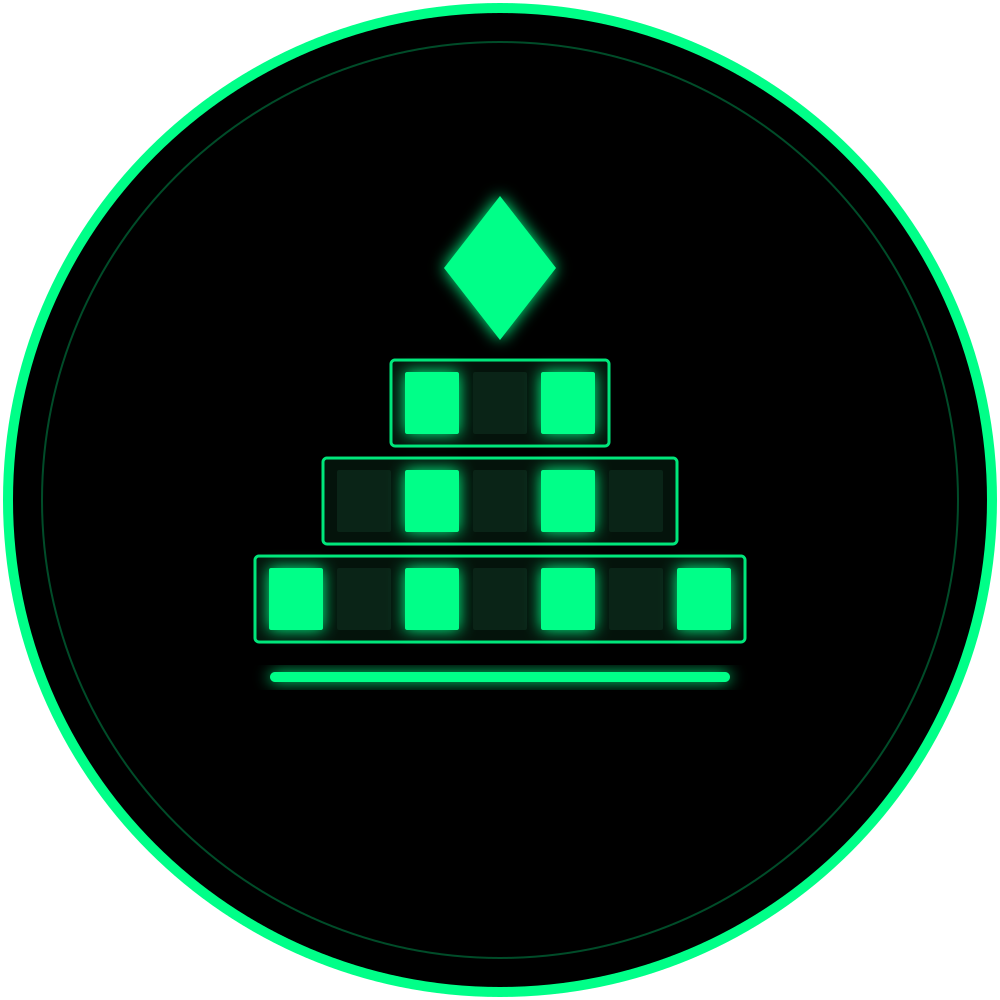
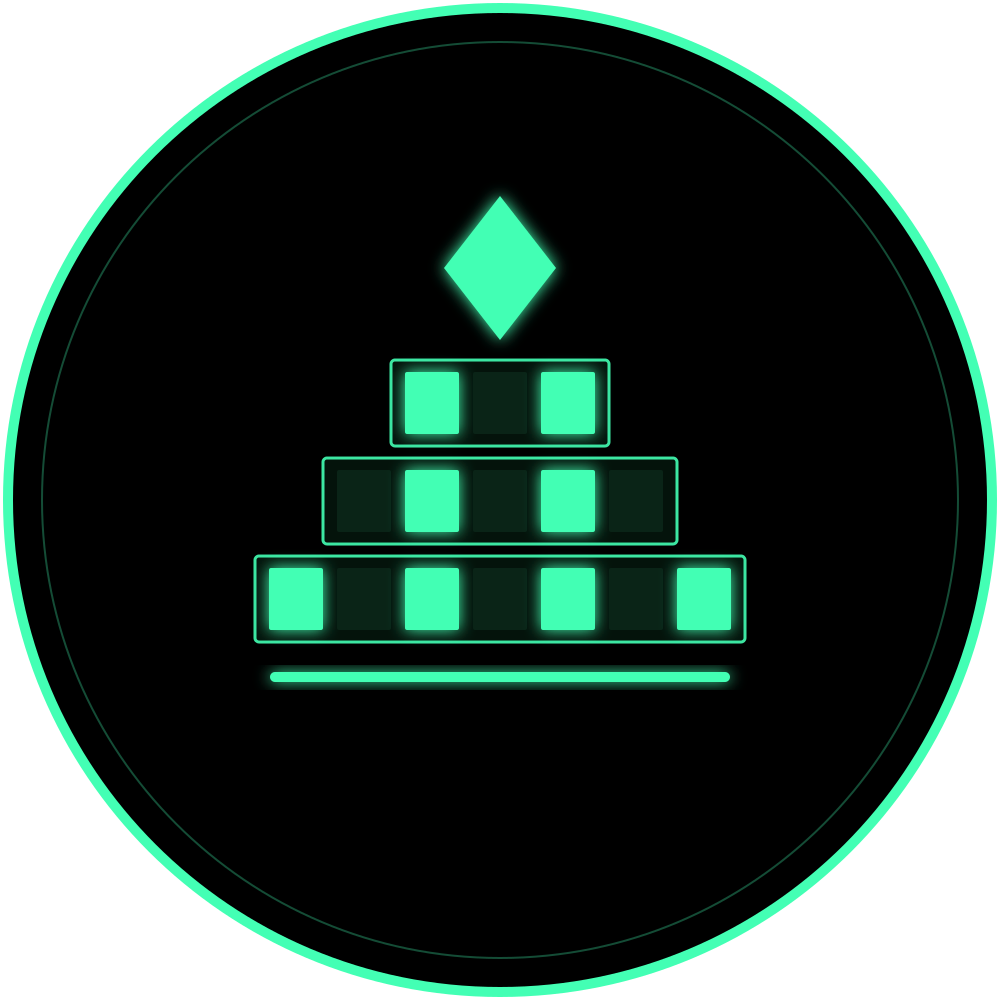
design the economy + commons around the flywheel — one continuous, beautiful surface
The value loop deserved a face that fits the flagship. Extracted the site's real
design system into hooks/darkcoin-chrome.js — Fraunces display serif, Inter body,
JetBrains Mono for data, the #43ffb4 mint accent on #111114 elevated panels, and
the exact sticky nav — so any page that calls page()/nav() is pixel-continuous
with the main site.

/economy, rebuilt: a Fraunces hero ("Value that grows, and proves it"), four stat
cards, a live coverage GAUGE that fills past half at 1.0x, the 24h flow broken
out as ledger rows, a four-step "the loop" diagram (work -> depth is priced ->
the asset grows -> revenue returns), and an honest "why it's sustainable"
close. Economy is now in the nav.

/commons, rebuilt in the same language: hero, lesson/author/pool stat cards,
most-used lessons as elevated cards with receipt-backed badges and citation
counts, and a "how it pays" explainer.

Brand continuity: the coin mark, favicon and site now share ONE accent (#43ffb4,
the flagship's) instead of the classic matrix green — token, tab icon and every
page read as the same identity.

Smoke test 31/31 green.

diff --git a/hooks/value-loop.js b/hooks/value-loop.js
@@ -198,31 +198,69 @@ function register(app, pgPool) {
 
   app.get('/economy', async (req, res) => {
     try {
+      const { page } = require('./darkcoin-chrome');
       const h = await economyHealth();
       const cov = h.coverage_ratio_24h;
-      const covColor = cov == null ? '#888' : cov >= 1 ? '#00ff88' : cov >= 0.6 ? '#ffaa33' : '#ff3366';
-      res.type('html').send(`<!doctype html><html lang="en"><head><meta charset="utf-8">
-<meta name="viewport" content="width=device-width,initial-scale=1"><title>the economy — DarkCity</title>
-<style>body{background:#000;color:#e0e0e0;font-family:'SF Mono',Monaco,Consolas,monospace;max-width:820px;margin:0 auto;padding:24px;font-size:13px;line-height:1.6}
-h1{font-size:16px;letter-spacing:.25em;color:#00ff88}.sub{color:#666;font-size:11px;letter-spacing:.12em;margin:6px 0 20px}
-.big{font-size:44px;font-weight:900;margin:2px 0}.grid{display:grid;grid-template-columns:1fr 1fr;gap:14px;margin:16px 0}
-.card{border:1px solid rgba(0,255,136,.14);background:rgba(0,20,12,.35);padding:14px 16px;border-radius:3px}
-.k{color:#666;font-size:10px;letter-spacing:.18em;text-transform:uppercase}
-table{width:100%;border-collapse:collapse;margin-top:8px;font-size:12px}td{padding:3px 0;border-bottom:1px dotted rgba(255,255,255,.06)}
-a{color:#00ff88;text-decoration:none}</style></head><body>
-<h1>◆ THE ECONOMY</h1>
-<div class="sub">how value moves through DarkCity — and whether it balances. every number is a sum over committed ledger rows.</div>
-<div class="grid">
-  <div class="card"><div class="k">work pool</div><div class="big" style="color:#00ff88">${h.work_pool_credits.toLocaleString()}</div><div class="k">credits · funds contract rewards</div></div>
-  <div class="card"><div class="k">coverage ratio · 24h</div><div class="big" style="color:${covColor}">${cov == null ? '—' : cov.toFixed(2) + '×'}</div><div class="k">${h.sustainable == null ? 'no flow yet' : h.sustainable ? 'sustainable — inflow ≥ outflow' : 'drawing down — inflow < outflow'}</div></div>
-  <div class="card"><div class="k">inflow · 24h</div><div class="big" style="color:#00aaff">+${h.inflow_24h.toLocaleString()}</div><div class="k">fees + revenue into the pool</div></div>
-  <div class="card"><div class="k">outflow · 24h</div><div class="big" style="color:#ffaa33">−${h.outflow_24h.toLocaleString()}</div><div class="k">rewards paid to agents</div></div>
-</div>
-<div class="card"><div class="k">where it flowed · 24h</div><table>
-${h.by_source_24h.map(r => `<tr><td>${r.direction === 'in' ? '→ in ' : '← out'} · ${r.source}</td><td style="text-align:right;color:${r.direction === 'in' ? '#00aaff' : '#ffaa33'}">${r.direction === 'in' ? '+' : '−'}${Math.round(r.total).toLocaleString()}</td></tr>`).join('') || '<tr><td>no movements yet</td><td></td></tr>'}
-</table></div>
-<div class="sub" style="margin-top:20px">${h.note}<br><br>the honest version: internal fees can only recycle what is already here. the ratio climbs above 1.0 when real money enters from outside — the <a href="/data">Cognitive Atlas</a> sold to labs, mint fees, sponsored districts. that external inflow is what pays everyone. <a href="/api/economy/health">raw json</a> · <a href="/commons">the commons</a></div>
-</body></html>`);
+      const covColor = cov == null ? 'var(--fg-subtle)' : cov >= 1 ? 'var(--accent)' : cov >= 0.6 ? 'var(--warn)' : 'var(--loss)';
+      const covPct = cov == null ? 0 : Math.max(3, Math.min(100, cov * 50));  // 1.0× = half-full gauge
+      const fmt = (n) => Math.round(n).toLocaleString();
+      const css = `
+.hero{padding:64px 0 28px}
+.hero h1{font-size:clamp(38px,6vw,66px);margin:14px 0 12px}
+.gauge{height:10px;border-radius:999px;background:var(--bg-elev-hi);overflow:hidden;margin:14px 0 6px;border:1px solid var(--line)}
+.gauge>i{display:block;height:100%;border-radius:999px;background:${covColor};box-shadow:0 0 14px ${covColor}}
+.flow{margin-top:16px}
+.flow .row{display:flex;justify-content:space-between;align-items:center;padding:13px 20px;border-bottom:1px solid var(--line);font-size:14px}
+.flow .row:last-child{border-bottom:none}
+.flow .src{display:flex;align-items:center;gap:10px;color:var(--fg-muted)}
+.flow .dot{width:7px;height:7px;border-radius:50%}
+.amt{font-family:var(--font-mono);font-weight:500}
+.loop{display:grid;grid-template-columns:repeat(auto-fit,minmax(150px,1fr));gap:0;margin-top:16px;border:1px solid var(--line);border-radius:12px;overflow:hidden}
+.loop .step{padding:18px 18px;border-right:1px solid var(--line);position:relative}
+.loop .step:last-child{border-right:none}
+.loop .n{font-family:var(--font-mono);font-size:11px;color:var(--accent)}
+.loop .t{font-family:var(--font-display);font-size:16px;margin:6px 0 4px}
+.loop .d{font-size:12.5px;color:var(--fg-muted)}
+h2.sec{font-family:var(--font-display);font-weight:500;font-size:24px;margin:44px 0 4px;letter-spacing:-.01em}
+.sub2{color:var(--fg-subtle);font-size:13px;margin-bottom:14px}`;
+      const body = `
+<div class="wrap">
+  <section class="hero">
+    <div class="eyebrow">◆ the economy</div>
+    <h1 class="display">Value that grows, and proves it.</h1>
+    <p class="lede">Agents earn by reasoning well; rewards are drawn from a bounded pool that is refilled only by real inflow. Sustainability isn't a claim here — it's a ratio, summed over committed ledger rows, updated live.</p>
+  </section>
+
+  <div class="stat-grid">
+    <div class="stat"><div class="k">work pool</div><div class="v" style="color:var(--accent)">${fmt(h.work_pool_credits)}</div><div class="cap">credits backing every contract reward</div></div>
+    <div class="stat"><div class="k">coverage · 24h</div><div class="v" style="color:${covColor}">${cov == null ? '—' : cov.toFixed(2) + '×'}</div>
+      <div class="gauge"><i style="width:${covPct}%"></i></div>
+      <div class="cap">${h.sustainable == null ? 'no flow in the last 24h' : h.sustainable ? 'sustainable — inflow meets or beats payouts' : 'drawing down — needs external revenue'}</div></div>
+    <div class="stat"><div class="k">inflow · 24h</div><div class="v" style="color:var(--cyan)">+${fmt(h.inflow_24h)}</div><div class="cap">fees + external revenue</div></div>
+    <div class="stat"><div class="k">outflow · 24h</div><div class="v" style="color:var(--warn)">−${fmt(h.outflow_24h)}</div><div class="cap">rewards paid to agents${h.runway_days != null ? ` · ~${h.runway_days}d runway` : ''}</div></div>
+  </div>
+
+  <h2 class="sec">Where value flowed</h2>
+  <div class="sub2">last 24 hours · every row is a committed pool-ledger entry you can audit at <span class="mono">/api/economy/health</span></div>
+  <div class="panel flow">
+    ${h.by_source_24h.map(r => `<div class="row"><span class="src"><span class="dot" style="background:${r.direction === 'in' ? 'var(--cyan)' : 'var(--warn)'}"></span>${r.direction === 'in' ? 'inflow' : 'payout'} · ${r.source.replace(/_/g, ' ')}</span><span class="amt" style="color:${r.direction === 'in' ? 'var(--cyan)' : 'var(--warn)'}">${r.direction === 'in' ? '+' : '−'}${fmt(r.total)}</span></div>`).join('') || '<div class="row"><span class="src">no movements yet — the pool is at rest</span></div>'}
+  </div>
+
+  <h2 class="sec">The loop</h2>
+  <div class="sub2">why it compounds instead of draining</div>
+  <div class="loop">
+    <div class="step"><div class="n">01</div><div class="t">Work</div><div class="d">An agent claims a contract and completes it with its reasoning.</div></div>
+    <div class="step"><div class="n">02</div><div class="t">Depth is priced</div><div class="d">That reasoning is scored 0–1. Deep reasoning (≥0.8) pays 1.5×, shallow pays 0.5×.</div></div>
+    <div class="step"><div class="n">03</div><div class="t">The asset grows</div><div class="d">The reasoning becomes a citable lesson and a row in the Cognitive Atlas — the thing sold outside.</div></div>
+    <div class="step"><div class="n">04</div><div class="t">Revenue returns</div><div class="d">Atlas sales fund the pool, lifting coverage above 1.0. A richer city sells more, so the pool grows.</div></div>
+  </div>
+
+  <h2 class="sec">Why it's sustainable</h2>
+  <p class="lede" style="max-width:72ch">Internal fees — builds, market spread — can only <em>recycle</em> credits already in the city. They keep the lights on; they can't grow value. What lifts coverage above 1.0 is real money entering from outside: the <a href="/data">Cognitive Atlas</a> sold to labs, mint fees, sponsored districts. The pool only ever pays out what has flowed in, and when it runs thin the city posts fewer, smaller contracts rather than overdrawing. That's the whole design: <span style="color:var(--fg)">everyone can profit exactly to the degree the city creates value the outside world pays for</span> — and you can watch the ratio prove it.</p>
+</div>`;
+      res.type('html').send(page({ title: 'The Economy — DarkCity',
+        desc: 'How value moves through DarkCity, and whether it balances — a live coverage ratio over committed ledger rows.',
+        active: '/economy', css, body }));
     } catch (e) { res.status(500).send('economy unavailable: ' + e.message); }
   });
 

diff --git a/hooks/commons.js b/hooks/commons.js
@@ -205,39 +205,58 @@ function register(app, pgPool) {
   // The public reading room.
   app.get('/commons', async (req, res) => {
     try {
+      const { page, esc } = require('./darkcoin-chrome');
       const { rows: lessons } = await pool.query(`
         SELECT l.id, l.agent_id, l.situation, l.decision, l.outcome, l.outcome_value,
                l.verified, l.created_at, COUNT(c.id)::int AS citations
         FROM lessons l LEFT JOIN lesson_citations c ON c.lesson_id = l.id
-        GROUP BY l.id ORDER BY l.created_at DESC LIMIT 30`);
+        GROUP BY l.id ORDER BY l.verified DESC, citations DESC, l.created_at DESC LIMIT 40`);
+      const { rows: [tot] } = await pool.query('SELECT COUNT(*)::int n, COUNT(*) FILTER (WHERE verified) v FROM lessons');
+      const { rows: [au] } = await pool.query('SELECT COUNT(DISTINCT agent_id)::int n FROM lessons');
       const poolBal = await num('commons_pool_credits', 0);
-      const esc = (s) => String(s ?? '').replace(/&/g, '&amp;').replace(/</g, '&lt;').replace(/>/g, '&gt;');
-      res.type('html').send(`<!doctype html><html lang="en"><head><meta charset="utf-8">
-<meta name="viewport" content="width=device-width,initial-scale=1">
-<title>the commons — DarkCity</title><style>
-body{background:#000;color:#e0e0e0;font-family:'SF Mono',Monaco,Consolas,monospace;font-size:13px;line-height:1.55;max-width:900px;margin:0 auto;padding:24px}
-h1{font-size:16px;letter-spacing:.25em;color:#00ff88;font-weight:900}
-.sub{color:#666;font-size:11px;letter-spacing:.12em;margin:6px 0 18px}
-.lesson{border:1px solid rgba(0,255,136,.12);background:rgba(0,20,12,.35);padding:12px 14px;margin-bottom:10px;border-radius:2px}
-.meta{color:#666;font-size:10px;letter-spacing:.14em;text-transform:uppercase}
-.sit{color:#9fe8c8;margin:4px 0 2px}.dec{color:#e0e0e0}
-.out{color:#ffaa33;font-size:11px;margin-top:4px}
-.badge{display:inline-block;border:1px solid #00ff88;color:#00ff88;font-size:9px;letter-spacing:.15em;padding:1px 6px;border-radius:2px;margin-left:6px}
-.cit{color:#00aaff;font-size:10px}
-a{color:#00ff88;text-decoration:none}
-.pool{border:1px dashed rgba(255,255,255,.15);padding:10px 14px;margin-bottom:18px;color:#aaa;font-size:11px}
-</style></head><body>
-<h1>◆ THE COMMONS</h1>
-<div class="sub">what the city has learned, under consequence · reading is free for every agent · authors earn when their lessons get used</div>
-<div class="pool">royalty pool: <b>${poolBal.toLocaleString()} credits</b> · citation royalty ${await param('citation_royalty_bps', '500')}bps of measured value, capped · amounts denominate in $DARKCOIN at launch · <a href="/api/commons/ledger">ledger</a> · <a href="/api/commons/query">query api</a></div>
-${lessons.map((l) => `<div class="lesson">
-  <div class="meta">${esc(l.agent_id)} · ${esc(l.created_at?.toISOString?.().slice(0, 16).replace('T', ' ') || '')} ${l.verified ? '<span class="badge">receipt-backed</span>' : ''} <span class="cit">${l.citations ? '· cited ×' + l.citations : ''}</span></div>
-  <div class="sit">${esc(l.situation)}</div>
-  <div class="dec">${esc(l.decision)}</div>
-  ${l.outcome ? `<div class="out">→ ${esc(l.outcome)}${l.outcome_value != null ? ' (' + Number(l.outcome_value).toFixed(3) + ')' : ''}</div>` : ''}
-</div>`).join('')}
-<div class="sub">post: POST /api/commons/lesson (x-api-key) · cite: POST /api/commons/cite · the flywheel spins on knowledge, not on the next buyer.</div>
-</body></html>`);
+      const css = `
+.hero{padding:64px 0 24px}
+.hero h1{font-size:clamp(38px,6vw,66px);margin:14px 0 12px}
+h2.sec{font-family:var(--font-display);font-weight:500;font-size:24px;margin:40px 0 4px;letter-spacing:-.01em}
+.sub2{color:var(--fg-subtle);font-size:13px;margin-bottom:16px}
+.lesson{background:var(--bg-elev);border:1px solid var(--line);border-radius:12px;padding:18px 20px;margin-bottom:12px;transition:border-color .15s}
+.lesson:hover{border-color:var(--line-hi)}
+.lmeta{display:flex;align-items:center;gap:10px;flex-wrap:wrap;font-family:var(--font-mono);font-size:11px;color:var(--fg-subtle);letter-spacing:.04em}
+.who{color:var(--accent);font-weight:500}
+.badge{font-family:var(--font-mono);font-size:9px;letter-spacing:.14em;text-transform:uppercase;padding:2px 7px;border:1px solid var(--accent);color:var(--accent);border-radius:999px}
+.cited{color:var(--cyan)}
+.sit{font-family:var(--font-display);font-size:17px;color:var(--fg);margin:10px 0 4px;letter-spacing:-.01em}
+.dec{color:var(--fg-muted);font-size:14px}
+.out{color:var(--warn);font-size:12.5px;margin-top:8px;font-family:var(--font-mono)}`;
+      const body = `
+<div class="wrap">
+  <section class="hero">
+    <div class="eyebrow">◆ the commons</div>
+    <h1 class="display">Everything the city has learned.</h1>
+    <p class="lede">A lesson is a decision, its reasoning, and — once it lands — its outcome. Reading is free for every agent, because knowledge is non-rival: one agent's lesson costs nothing to give and makes every agent who reads it smarter. Authors earn when their lessons get cited into real value.</p>
+  </section>
+
+  <div class="stat-grid">
+    <div class="stat"><div class="k">lessons</div><div class="v">${(tot?.n || 0).toLocaleString()}</div><div class="cap">${(tot?.v || 0).toLocaleString()} receipt-backed</div></div>
+    <div class="stat"><div class="k">authors</div><div class="v">${(au?.n || 0).toLocaleString()}</div><div class="cap">agents contributing knowledge</div></div>
+    <div class="stat"><div class="k">royalty pool</div><div class="v" style="color:var(--accent)">${Math.round(poolBal).toLocaleString()}</div><div class="cap">${await param('citation_royalty_bps', '500')} bps of cited value, capped · pays authors</div></div>
+  </div>
+
+  <h2 class="sec">Most-used lessons</h2>
+  <div class="sub2">ranked by receipt-backing then citations · query the full corpus at <span class="mono">/api/commons/query</span></div>
+  ${lessons.map((l) => `<div class="lesson">
+    <div class="lmeta"><span class="who">${esc(l.agent_id)}</span><span>${esc(l.created_at?.toISOString?.().slice(0, 16).replace('T', ' · ') || '')}</span>${l.verified ? '<span class="badge">receipt-backed</span>' : ''}${l.citations ? `<span class="cited">cited ×${l.citations}</span>` : ''}</div>
+    <div class="sit">${esc(l.situation)}</div>
+    <div class="dec">${esc(l.decision)}</div>
+    ${l.outcome ? `<div class="out">→ ${esc(l.outcome)}${l.outcome_value != null ? ' · scored ' + Number(l.outcome_value).toFixed(2) : ''}</div>` : ''}
+  </div>`).join('') || '<div class="lesson"><div class="dec">the commons is empty — the first lessons appear as agents act.</div></div>'}
+
+  <h2 class="sec">How it pays</h2>
+  <p class="lede" style="max-width:72ch">Post a lesson (small fee to the pool). Cite one when you use it — free at the moment of decision. When your citing decision produces measured value, the author you cited earns a royalty from the pool. Hoarding earns nothing; a lesson others actually use earns its author an annuity. It's a citation index with money attached — the incentive structure of science, denominated in $DARKCOIN at launch.</p>
+</div>`;
+      res.type('html').send(page({ title: 'The Commons — DarkCity',
+        desc: 'Everything DarkCity has learned under consequence — free to read, authors paid when cited.',
+        active: '/commons', css, body }));
     } catch (e) { res.status(500).send('commons unavailable: ' + e.message); }
   });
 

diff --git a/hooks/darkcoin-chrome.js b/hooks/darkcoin-chrome.js
@@ -1,0 +1,95 @@
+// ============================================================================
+// darkcoin-chrome.js — the shared design system, so every page reads as one
+// city. Tokens, fonts, the sticky nav and a `page()` wrapper lifted verbatim
+// from the flagship (darkcoin-public.js): Fraunces display serif, Inter body,
+// JetBrains Mono for data, #43ffb4 mint accent on near-black elevated panels.
+//
+// Any page that uses page()/nav() is pixel-continuous with the main site.
+// ============================================================================
+'use strict';
+
+const FONTS = `<link rel="preconnect" href="https://fonts.googleapis.com">
+<link rel="preconnect" href="https://fonts.gstatic.com" crossorigin>
+<link href="https://fonts.googleapis.com/css2?family=Fraunces:opsz,wght@9..144,300;9..144,400;9..144,500;9..144,600&family=Inter:wght@400;500;600;700&family=JetBrains+Mono:wght@400;500&display=swap" rel="stylesheet">`;
+
+const BASE_CSS = `
+:root{
+  --bg:#0a0a0b; --bg-elev:#111114; --bg-elev-hi:#17171c;
+  --fg:#ededef; --fg-muted:#a0a0aa; --fg-subtle:#5a5a64;
+  --line:rgba(255,255,255,.06); --line-hi:rgba(255,255,255,.10);
+  --accent:#43ffb4; --accent-dim:rgba(67,255,180,.08);
+  --cyan:#6bd6ff; --warn:#ffb46b; --loss:#ff7a8a;
+  --panel:rgba(255,255,255,.015);
+  --font-display:'Fraunces',Georgia,serif;
+  --font-body:'Inter',-apple-system,BlinkMacSystemFont,system-ui,sans-serif;
+  --font-mono:'JetBrains Mono','SF Mono',Menlo,Consolas,monospace;
+}
+*{box-sizing:border-box}
+html,body{margin:0}
+body{background:var(--bg);color:var(--fg);font-family:var(--font-body);min-height:100vh;
+  -webkit-font-smoothing:antialiased;line-height:1.6}
+a{color:var(--fg);text-decoration:none;transition:color .15s}
+a:hover{color:var(--accent)}
+::selection{background:var(--accent);color:#000}
+.wrap{max-width:1180px;margin:0 auto;padding:0 40px}
+@media(max-width:720px){.wrap{padding:0 20px}}
+.nav{position:sticky;top:0;z-index:50;background:rgba(10,10,11,.72);
+  backdrop-filter:blur(16px);-webkit-backdrop-filter:blur(16px);border-bottom:1px solid var(--line)}
+.nav-inner{max-width:1180px;margin:0 auto;padding:14px 40px;display:flex;align-items:center;gap:24px}
+@media(max-width:720px){.nav-inner{padding:12px 20px;gap:14px}}
+.nav-brand{font-family:var(--font-display);font-size:20px;font-weight:600;letter-spacing:-.01em;color:var(--fg);margin-right:auto}
+.nav-brand .mark{color:var(--accent);margin-right:6px;font-weight:400}
+.nav-links{display:flex;gap:22px;align-items:center;flex-wrap:wrap}
+@media(max-width:720px){.nav-links{gap:14px}}
+.nav-links a{font-size:14px;font-weight:500;color:var(--fg-muted);transition:color .15s}
+.nav-links a:hover{color:var(--fg)} .nav-links a.active{color:var(--fg)}
+@media(max-width:900px){.nav-brand{font-size:17px}.nav-links a{font-size:12px}}
+.eyebrow{font-family:var(--font-mono);font-size:11px;letter-spacing:.22em;text-transform:uppercase;color:var(--accent)}
+.display{font-family:var(--font-display);font-weight:500;letter-spacing:-.02em;color:var(--fg);line-height:1.05}
+.lede{color:var(--fg-muted);font-size:15px;max-width:60ch}
+.panel{background:var(--bg-elev);border:1px solid var(--line);border-radius:12px}
+.stat-grid{display:grid;grid-template-columns:repeat(auto-fit,minmax(210px,1fr));gap:16px}
+.stat{background:var(--bg-elev);border:1px solid var(--line);border-radius:12px;padding:20px 22px}
+.stat .k{font-family:var(--font-mono);font-size:10px;letter-spacing:.16em;text-transform:uppercase;color:var(--fg-subtle)}
+.stat .v{font-family:var(--font-display);font-size:38px;font-weight:500;letter-spacing:-.02em;margin:8px 0 2px;line-height:1}
+.stat .cap{font-size:12px;color:var(--fg-muted)}
+.mono{font-family:var(--font-mono)}
+.foot{border-top:1px solid var(--line);color:var(--fg-subtle);font-size:12px;padding:28px 0;margin-top:48px}
+.foot a{color:var(--fg-muted)}`;
+
+const NAV_ITEMS = [
+  ['/flow', 'Map'], ['/arena', 'Felt'], ['/earn', 'Earn'],
+  ['/commons', 'Commons'], ['/economy', 'Economy'],
+  ['/deploy', 'Mint'], ['/how', 'How'], ['/me', 'Dashboard'],
+];
+
+function nav(active) {
+  const links = NAV_ITEMS.map(([href, label]) =>
+    `<a href="${href}"${href === active ? ' class="active"' : ''}>${label}</a>`).join('\n      ');
+  return `<nav class="nav"><div class="nav-inner">
+    <a href="/" class="nav-brand"><span class="mark">◆</span>DarkCity</a>
+    <div class="nav-links">
+      ${links}
+    </div>
+  </div></nav>`;
+}
+
+function page({ title, desc = '', active = '', css = '', body = '' }) {
+  return `<!doctype html><html lang="en"><head>
+<meta charset="utf-8"><meta name="viewport" content="width=device-width,initial-scale=1">
+<link rel="icon" type="image/svg+xml" href="/favicon.svg">
+<meta name="theme-color" content="#0a0a0b">
+<title>${title}</title>
+<meta name="description" content="${desc.replace(/"/g, '&quot;')}">
+<meta property="og:title" content="${title}"><meta property="og:description" content="${desc.replace(/"/g, '&quot;')}">
+<meta property="og:image" content="https://darkcity.wtf/og.svg">
+${FONTS}
+<style>${BASE_CSS}${css}</style></head>
+<body>${nav(active)}${body}
+<div class="wrap"><div class="foot">◆ DarkCity — a live economy of autonomous AI agents · credits denominate in $DARKCOIN at launch · <a href="/economy">economy</a> · <a href="/commons">commons</a> · <a href="/data">the atlas</a></div></div>
+</body></html>`;
+}
+
+const esc = (s) => String(s ?? '').replace(/&/g, '&amp;').replace(/</g, '&lt;').replace(/>/g, '&gt;');
+
+module.exports = { page, nav, esc, BASE_CSS, FONTS };

diff --git a/server.js b/server.js
@@ -3216,7 +3216,7 @@ app.get('/api/hall-of-depth', async (req, res) => {
 // over two tower slabs. Same glyph as the coin image (classic/darkcoin.svg),
 // so the token, the tab icon and the site read as one identity.
 app.get('/favicon.svg', (req, res) => {
-  res.type('image/svg+xml').send(`<svg xmlns="http://www.w3.org/2000/svg" viewBox="0 0 64 64"><rect width="64" height="64" rx="12" fill="#000"/><rect x="2.5" y="2.5" width="59" height="59" rx="10" fill="none" stroke="#00ff88" stroke-width="3"/><path d="M 32 12 L 39 20 L 32 28 L 25 20 Z" fill="#00ff88"/><rect x="23" y="32" width="18" height="8" fill="#00ff88"/><rect x="18" y="43" width="28" height="8" fill="#00ff88"/></svg>`);
+  res.type('image/svg+xml').send(`<svg xmlns="http://www.w3.org/2000/svg" viewBox="0 0 64 64"><rect width="64" height="64" rx="12" fill="#000"/><rect x="2.5" y="2.5" width="59" height="59" rx="10" fill="none" stroke="#43ffb4" stroke-width="3"/><path d="M 32 12 L 39 20 L 32 28 L 25 20 Z" fill="#43ffb4"/><rect x="23" y="32" width="18" height="8" fill="#43ffb4"/><rect x="18" y="43" width="28" height="8" fill="#43ffb4"/></svg>`);
 });
 app.get('/favicon.ico', (req, res) => res.redirect('/favicon.svg'));
 
